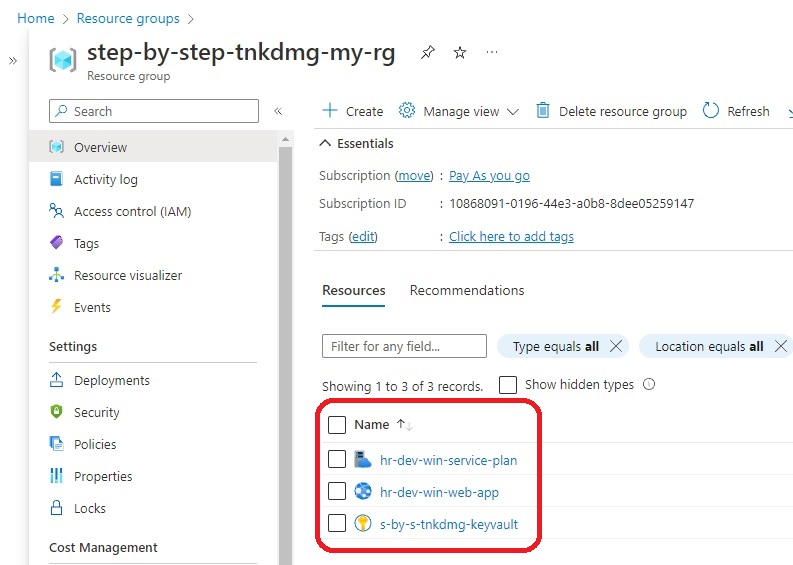
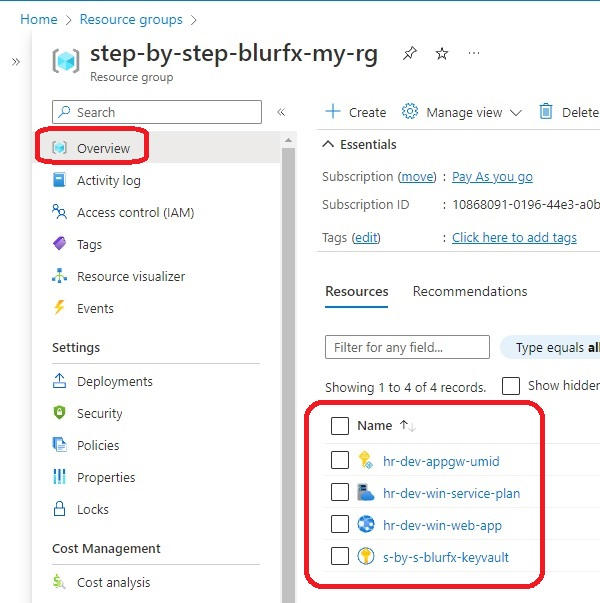
Added more info

diff --git a/src/dotnet-apps/0350-AzureKeyValutFromWebApiAccess/Controllers/ConnectionController.cs b/src/dotnet-apps/0350-AzureKeyValutFromWebApiAccess/Controllers/ConnectionController.cs
@@ -13,7 +13,7 @@ namespace AzureKeyValutFromWebApiAccess.Controllers
         [HttpGet(Name = "GetConnectionString")]
         public string GetConnectionString()
         {
-            var keyvaultUrl = "https://s-by-s-vmppth-keyvault.vault.azure.net/";
+            var keyvaultUrl = "https://s-by-s-blurfx-keyvault.vault.azure.net/";
             var secretName = "sql-connection-string";
 
             var tokenCredential = new DefaultAzureCredential();

diff --git a/src/tf-files/890305-win-app-to-key-vault-user-assigned/ReadMe.md b/src/tf-files/890305-win-app-to-key-vault-user-assigned/ReadMe.md
@@ -1,11 +1,13 @@
-# Azure Key Vault
-
-# Currently this is not working. Need to look into this a bit latter. May be after completing the Az500 course.
+# Azure Key Vault example.
 
 - Reference: 
   - https://github.com/Azure/azure-sdk-for-net/blob/main/sdk/identity/Azure.Identity/TROUBLESHOOTING.md#azure-app-service-and-azure-functions-managed-identity
 
   - https://github.com/Azure/Azure-Functions/issues/2100
+
+
+# Currently this is not working. Getting the follwiong error.
+
 
 ```
 ManagedIdentityCredential authentication failed: Service request failed.
@@ -18,7 +20,7 @@ Status: 400 (Bad Request)
 
 - This example extends a previous example. This example, deploys an Azure Key Vault. And then inside of it a secret. That secret will contain a connection string. 
 
-- This example does not contain any application object. But instead, it has a Windows Web app Service. This Web App Service has UserAssigned identity as againest SystemAssigned identity. Find the following code in the resource **azurerm_windows_web_app** in file **tf10-2-win-web-app.tf**
+- This example does not contain any application object. But instead, it has a Windows Web app Service. This Web App Service has UserAssigned identity (in contrast to SystemAssigned identity). Find the following code in the resource **azurerm_windows_web_app** in file **tf10-2-win-web-app.tf**
 
 ```tf
   identity {
@@ -39,19 +41,29 @@ access_policy {
 }
 ```
 
-- Here there is no database. 
+- Here in this example, there is no database.
 
 - Once the resources are deployed, Review them.
 
 ![Resources Created on Azure](./images/20PostDeploymentReview20.jpg)
 
+![Resources Created on Azure](./images/20PostDeploymentReview21.jpg)
+
 ![Resources Created on Azure](./images/20PostDeploymentReview22.jpg)
+
+![Resources Created on Azure](./images/20PostDeploymentReview23.jpg)
+
+![Resources Created on Azure](./images/20PostDeploymentReview24.jpg)
 
 ![Resources Created on Azure](./images/20PostDeploymentReview25.jpg)
 
-![Resources Created on Azure](./images/20PostDeploymentReview30.jpg)
+![Resources Created on Azure](./images/20PostDeploymentReview26.jpg)
 
-![Resources Created on Azure](./images/20PostDeploymentReview35.jpg)
+![Resources Created on Azure](./images/20PostDeploymentReview27.jpg)
+
+![Resources Created on Azure](./images/20PostDeploymentReview28.jpg)
+
+![Resources Created on Azure](./images/20PostDeploymentReview29.jpg)
 
 - # Need to update the following variable in the file 
 
@@ -60,4 +72,12 @@ access_policy {
 ```tf    
 var keyvaultUrl = "https://s-by-s-yuxxwo-keyvault.vault.azure.net/";
 ```
+
+![Resources Created on Azure](./images/25PostDeploymentReview22.jpg)
+
+![Deploy](./images/21DeployWebApiApp20.jpg)
+
+![Deploy](./images/21DeployWebApiApp25.jpg)
+
+![Deploy](./images/21DeployWebApiApp26.jpg)
 
